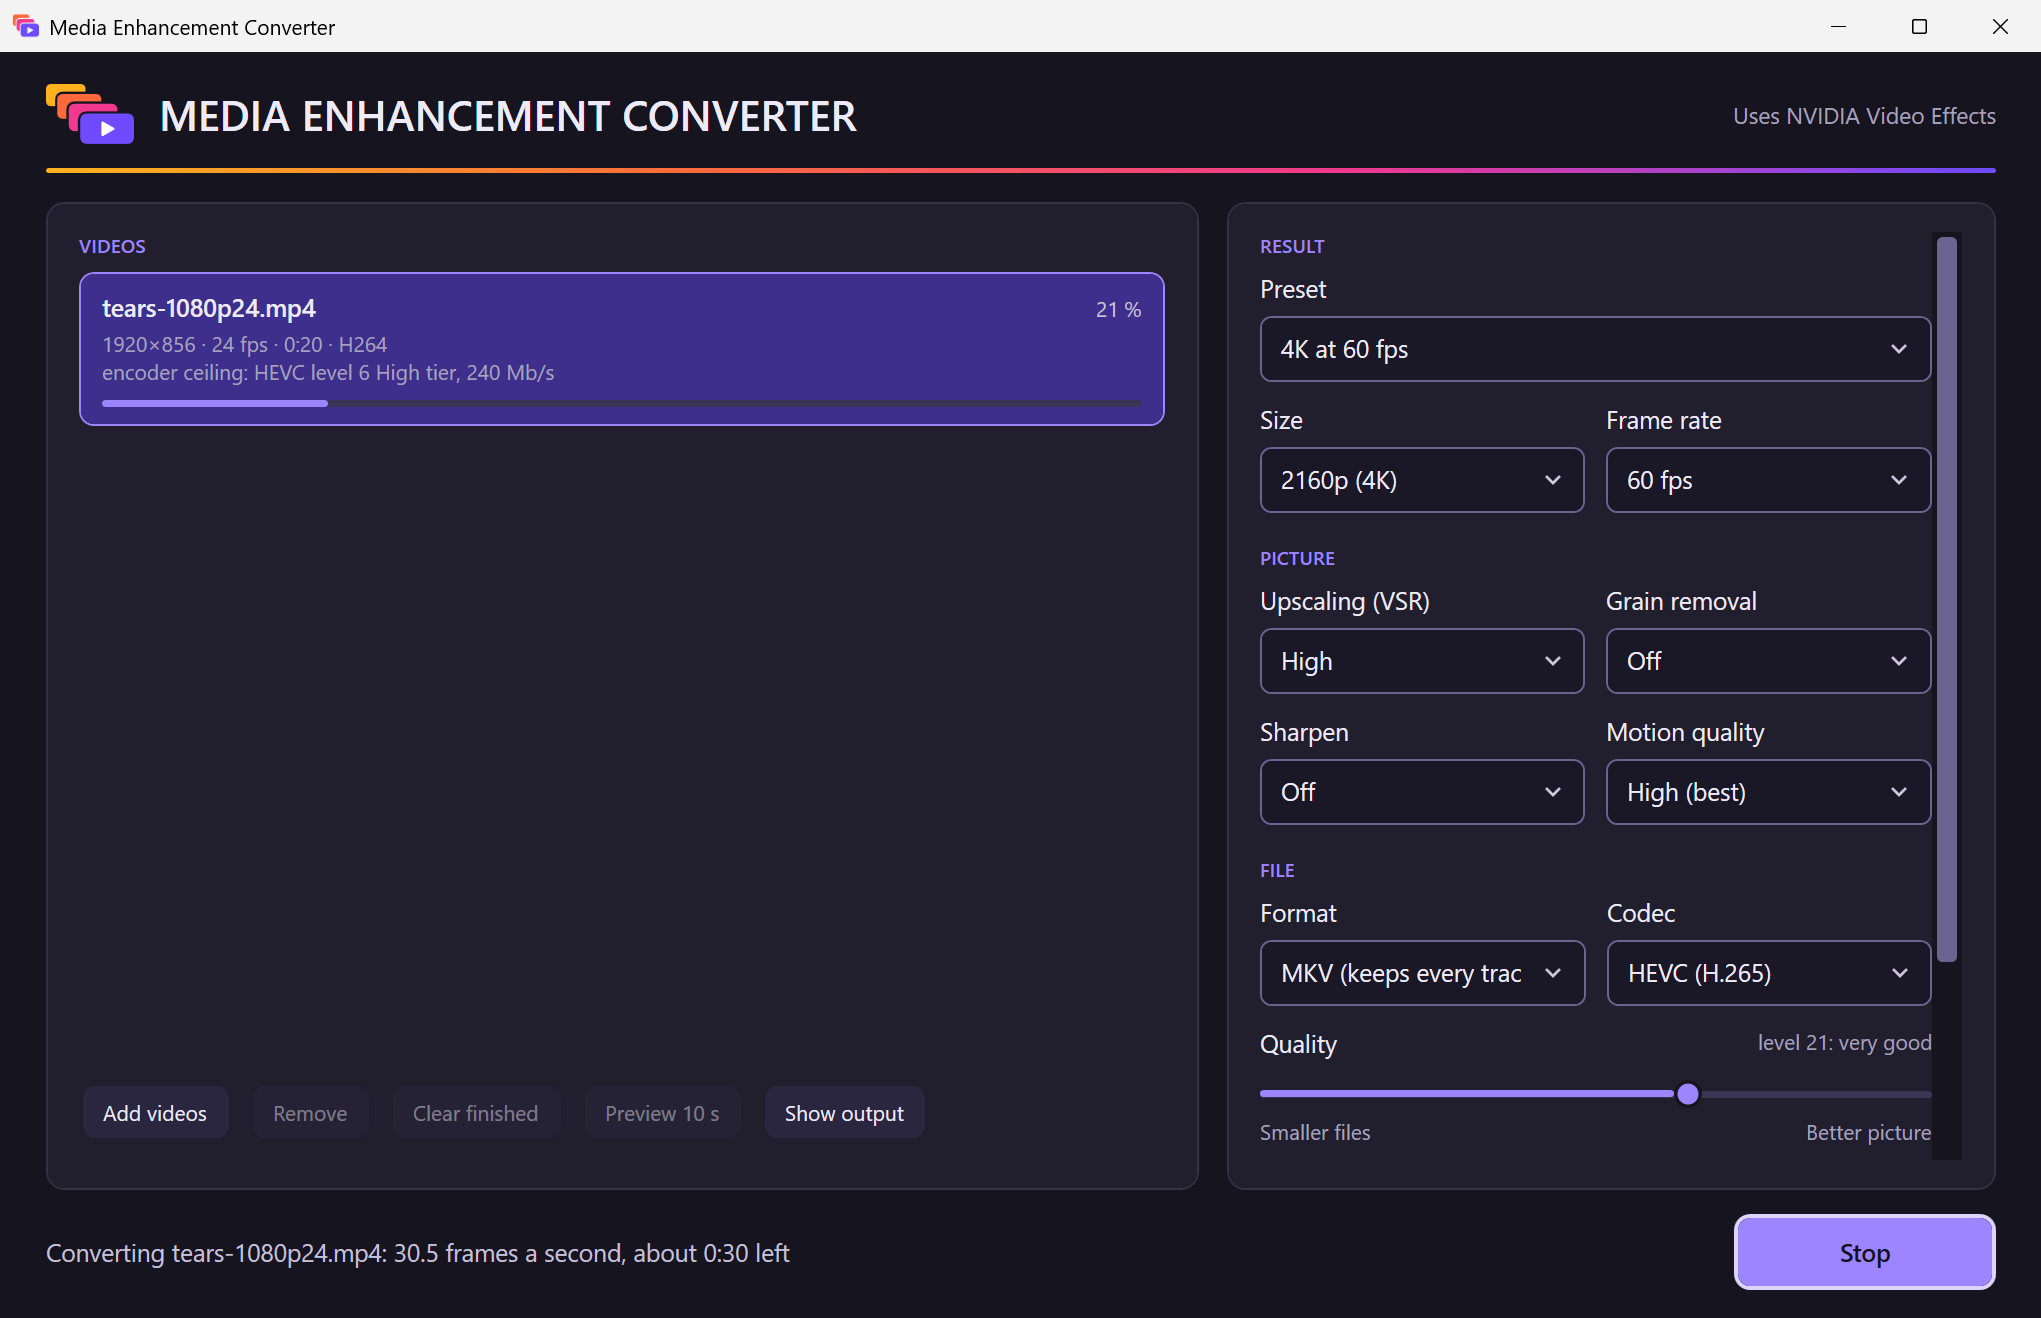
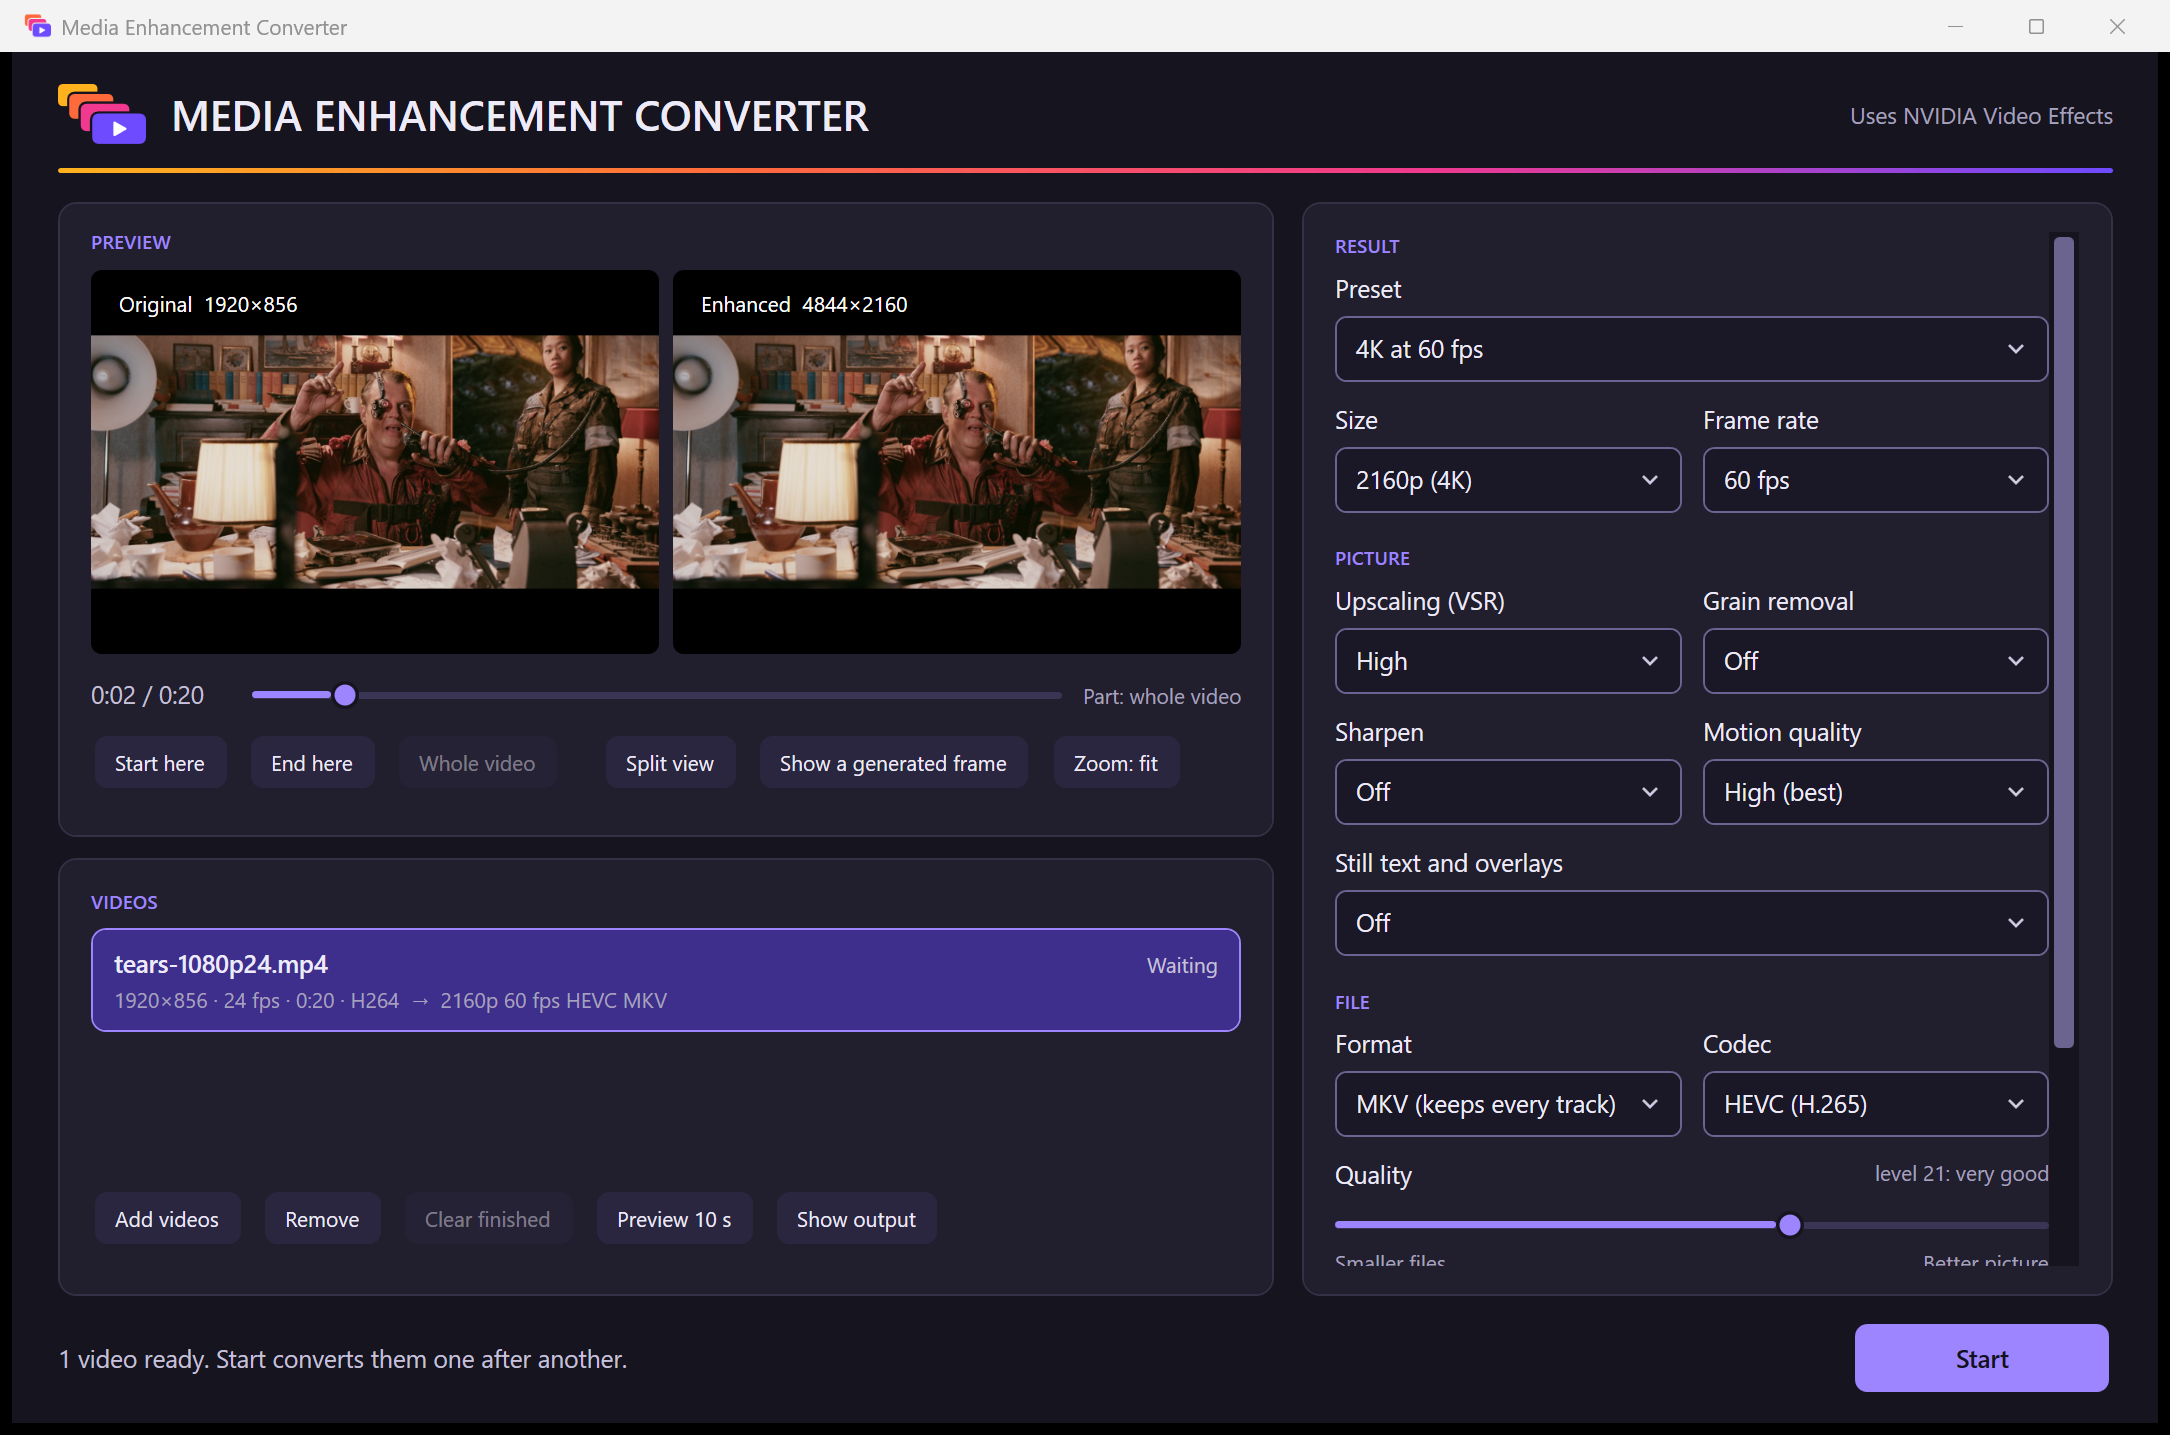
Converter 0.3.0: preview, split view, trimming and estimates in the README
Claude-Session: https://claude.ai/code/session_01Af5hEsQram3B9KX5UcWWQt

diff --git a/README.md b/README.md
@@ -21,7 +21,7 @@ All are in the [latest release](../../releases/latest), whose notes list the SHA
 
 - **For MPC-HC:** the installer, `Media-Enhancement-Setup-1.4.6.exe`.
 - **For Chrome, Edge and Firefox:** the extension, `Media-Enhancement-Browser-1.3.5-Chrome-Edge.zip` and `Media-Enhancement-Browser-1.3.5-Firefox.xpi`. See [Browser extension](#browser-extension).
-- **For converting files:** the converter preview, `Media-Enhancement-Converter-0.1.0.zip`. See [Converter](#converter).
+- **For converting files:** the converter preview, `Media-Enhancement-Converter-0.3.0.zip`. See [Converter](#converter).
 
 ## Requirements
 
@@ -146,13 +146,21 @@ The extension runs only on your computer and does not collect or send any data. 
 
 A preview. It converts a video file to a new file with the same enhancements (upscaling, grain removal, sharpening and frame generation), so the result plays anywhere, also on devices without an NVIDIA card.
 
-![The converter's window while it converts a video to 4K at 60 fps](docs/images/converter.png)
+![The converter's window: the original frame on the left, the enhanced frame on the right, a seek bar and the settings](docs/images/converter.png)
+
+- **Preview before converting.** The original frame is on the left and the enhanced frame on the right. Move the seek bar to any scene, zoom in with the mouse wheel (up to 64×) and drag to move the picture. "Show a generated frame" shows a frame made by frame generation.
+- **Split view** shows one picture with a divider you can drag between the original and the enhanced side.
+- **Choose the result:** a preset, or the size, frame rate, upscaling, grain removal, sharpening, motion quality, file format, codec and quality.
+- **Trim:** "Start here" and "End here" convert only part of a video.
+- **Estimates:** "Preview 10 s" converts ten seconds from the seek bar's position and estimates the size and time of the whole conversion.
+- **Still text and overlays** keeps text, logos and game displays steady in generated frames. It is off by default and was measured only on game recordings at 1920×1080 and 2×.
+
+![Split view with the divider between the original and the enhanced picture](docs/images/converter-split.png)
 
 - It needs Media Enhancement installed: the converter uses the NVIDIA runtime that Setup installs. The download contains no NVIDIA files.
-- Unzip `Media-Enhancement-Converter-0.1.0.zip`, keep its files together and start `Media Enhancement Converter.exe`. Add your videos, choose the settings and start. The original files are not changed.
+- Unzip `Media-Enhancement-Converter-0.3.0.zip`, keep its files together and start `Media Enhancement Converter.exe`. The original files are not changed.
 - `MediaEnhancementConvert.exe` is the same engine for the command line; `README.txt` in the download lists its options.
-- `--protect on` keeps still overlays (text, logos, game displays) steady in generated frames. It is off by default and was measured only on game recordings at 1920×1080 and 2×.
-- Tested: the engine's 19-case suite on an RTX 5060. The window of this build was not tested again after the rebuild.
+- Tested: the engine's 20-case suite on an RTX 5060, including the preview pictures.
 - The download includes FFmpeg 9.0 libraries (LGPL version 3, unchanged); see `README.txt` and `FFmpeg LICENSE.txt` in it.
 
 ## Licence
